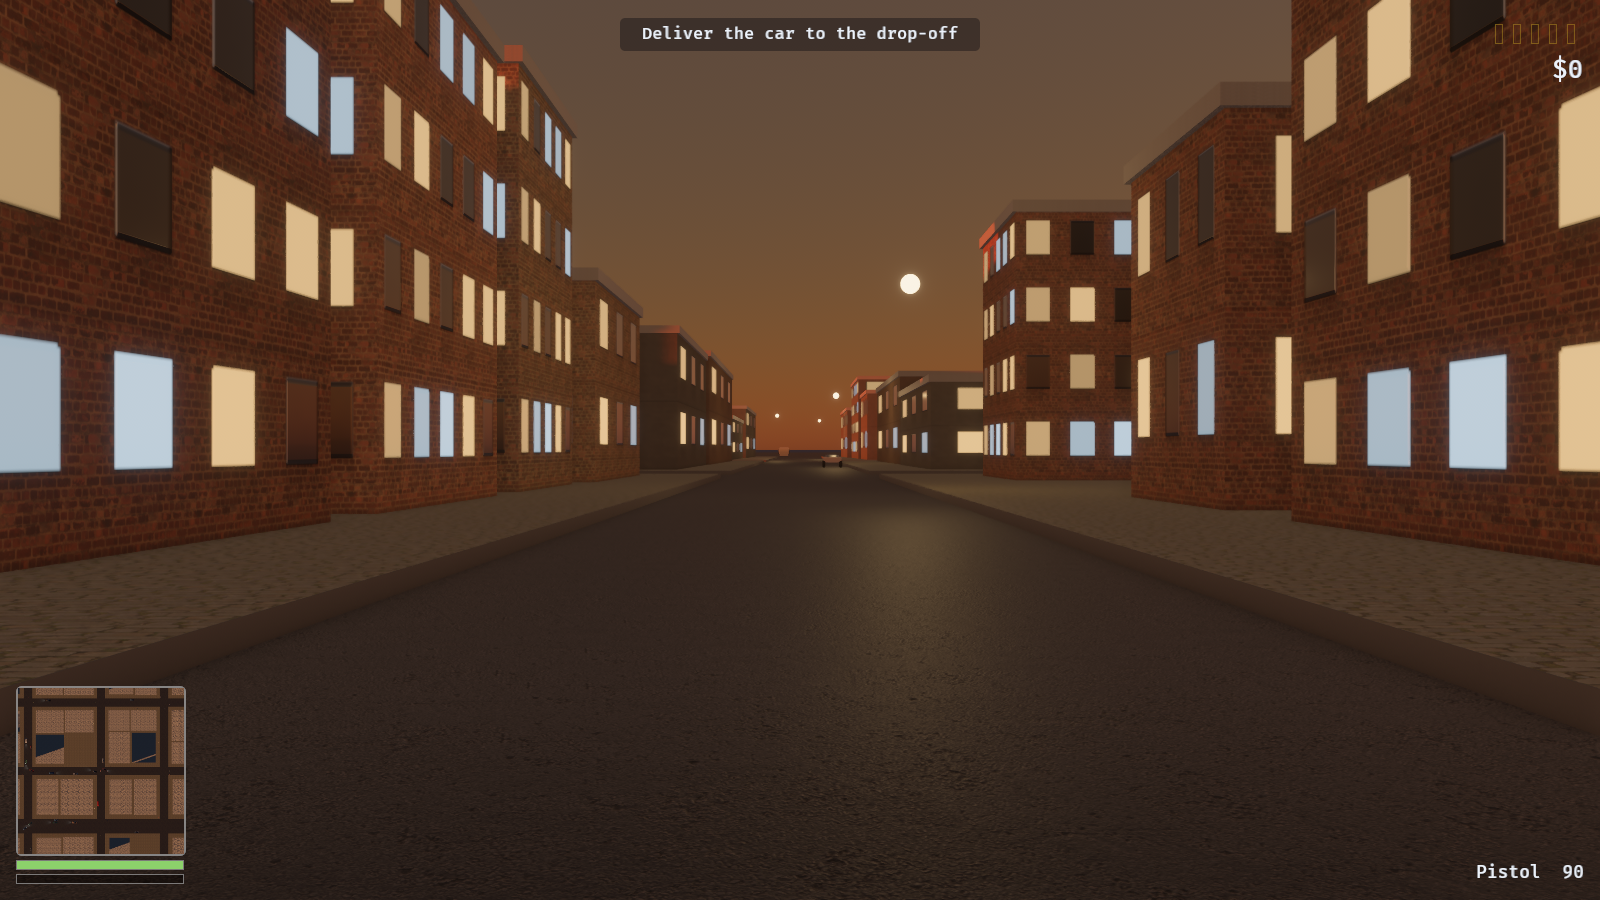
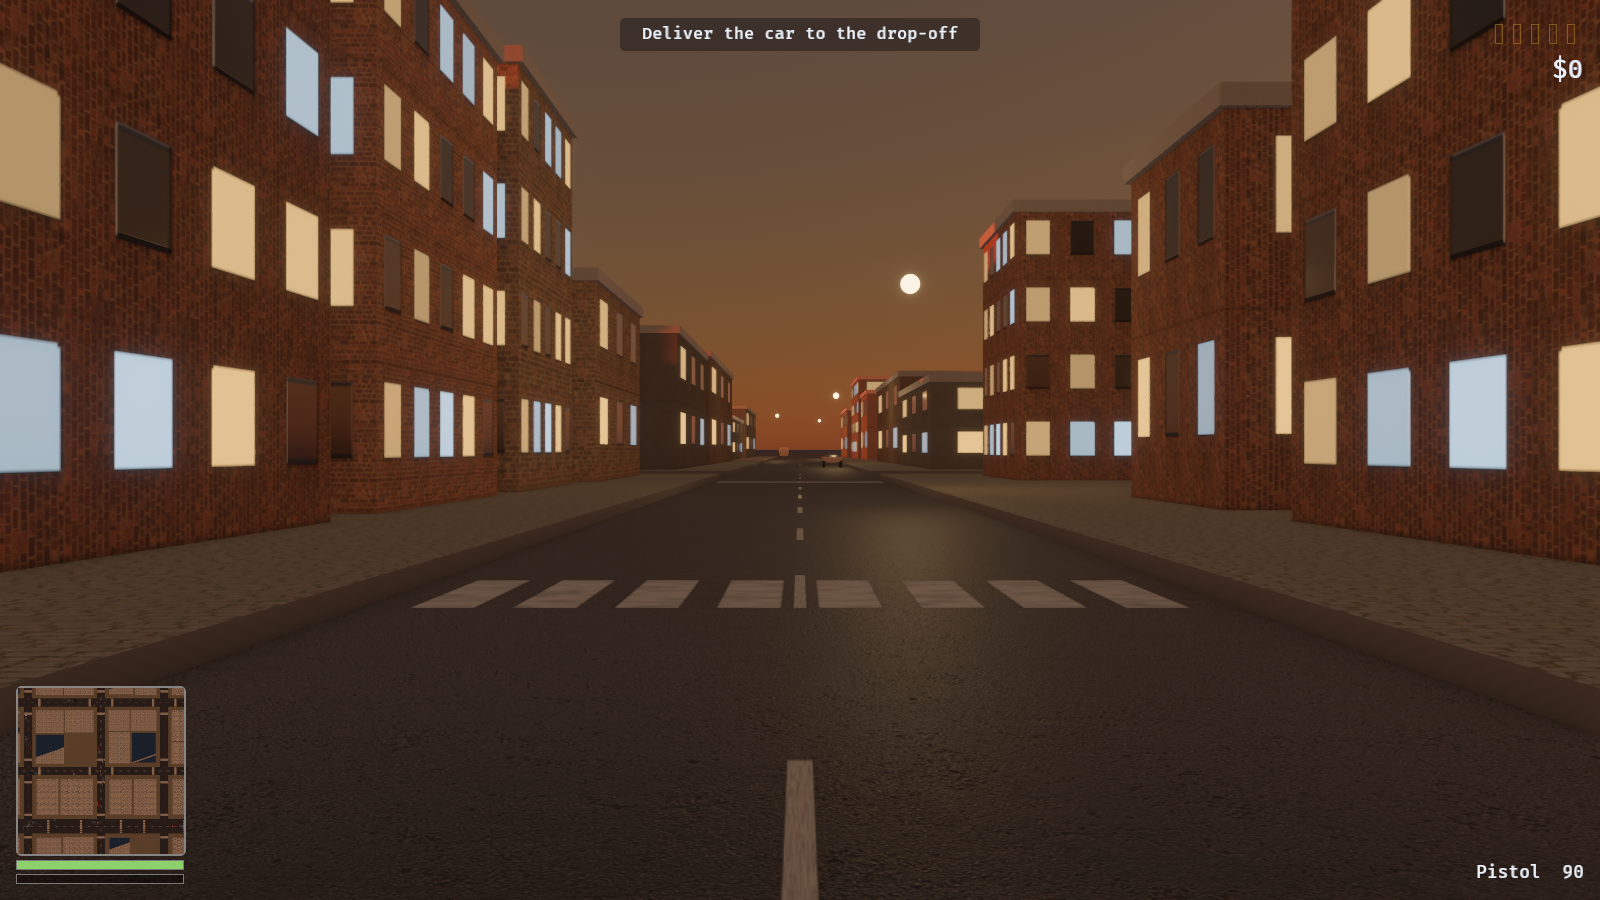
Paint the roads
Streets had no markings at all, which is on the list of things that read
as missing rather than as stylised. The road surface is one plane two
kilometres across, so there is nowhere in its texture to put a line that
has to follow a particular street — the street layout does not exist when
that texture is painted. So the paint is geometry: flat quads laid over
the asphalt, streamed with the chunk they sit in, sharing one mesh and
one material apiece.

Dashes are spaced by placing a quad each rather than by tiling a texture.
A tiled pattern stretched to fit a street gives a fifty-metre street the
same number of dashes as a hundred-metre one; placing them keeps the
dashes the same length everywhere and lets the spacing take up the
remainder, so a line begins and ends the same distance from its junctions
however long the street is.

Crossings go at each junction approach, set back to clear the junction
itself, and only on streets long enough to have room for two.

The paint floats fifteen millimetres above the road. That is not
z-fighting margin — the depth buffer copes with far less — it is so the
line survives the asphalt's own normal-mapped grain at the grazing angles
a driver actually sees it from.

Streets are filed by the chunk their midpoint falls in, so a street that
spans two chunks is painted exactly once.

Changed region(s): [[0.25, 0.6222, 0.75, 0.6844], [0.4688, 0.84, 0.5312, 1.0]]

diff --git a/src/world/markings.rs b/src/world/markings.rs
@@ -1,0 +1,275 @@
+//! The paint on the road.
+//!
+//! Markings are laid as flat quads over the asphalt rather than drawn into it.
+//! The road surface is one plane two kilometres across — there is nowhere in
+//! its texture to put a line that has to follow a particular street, and the
+//! street layout is not known when that texture is painted.
+//!
+//! Each street gets a centre line and each junction approach a crossing, and
+//! both come and go with the chunk they sit in, exactly like the buildings.
+//! They share one mesh and one material apiece, so the whole road network's
+//! paint is two draw calls.
+//!
+//! Everything sits a centimetre and a half above the road. That is not
+//! z-fighting margin — the depth buffer would cope with far less — it is so
+//! the line stays visible from a driver's eye height, where the asphalt's own
+//! normal-mapped grain would otherwise chew into it at grazing angles.
+
+use bevy::prelude::*;
+use bevy::render::render_resource::TextureFormat;
+
+use super::buildings::{ChunkOf, with_tangents};
+use super::roadgraph::RoadEdge;
+use super::texture::{byte, fbm, painted};
+
+/// How high the paint floats above the asphalt.
+const PAINT_HEIGHT: f32 = 0.015;
+/// Width of a centre line, in metres.
+const LINE_WIDTH: f32 = 0.16;
+/// Metres of road per dash, gap included.
+const DASH_PERIOD: f32 = 9.0;
+/// Metres of that period which are actually painted.
+const DASH_LENGTH: f32 = 3.2;
+/// Depth of a crossing measured along the road, in metres.
+const CROSSING_DEPTH: f32 = 2.6;
+/// How far back from a junction the crossing sits, as a fraction of the
+/// street's half-width.
+const CROSSING_SETBACK: f32 = 1.35;
+/// Streets shorter than this get no crossings; there is no room between them.
+const MIN_CROSSING_LENGTH: f32 = 26.0;
+
+const PAINT_SIZE: u32 = 256;
+
+#[derive(Resource)]
+pub struct MarkingAssets {
+    quad: Handle<Mesh>,
+    centre_line: Handle<StandardMaterial>,
+    crossing: Handle<StandardMaterial>,
+}
+
+/// Road paint is worn, not printed: tyres polish it thin down the middle of a
+/// lane and grit fills the low spots. A line at a flat 100% white reads as a
+/// decal laid on the world rather than as paint that has been driven over.
+fn wear(u: f32, v: f32, seed: u32) -> f32 {
+    (0.72 + fbm(u, v, 26, 3, seed) * 0.45).clamp(0.0, 1.0)
+}
+
+/// One dash of a centre line.
+///
+/// A dash rather than a dash *pattern*, because the pattern cannot live in the
+/// texture: every street is a different length, and a texture stretched to fit
+/// one would give a fifty-metre street the same number of dashes as a
+/// hundred-metre one. So the spacing is done by placing quads, and each quad
+/// holds a single mark.
+fn centre_line_texture() -> Image {
+    painted(PAINT_SIZE, TextureFormat::Rgba8UnormSrgb, |u, v| {
+        // Soft along both axes: a hard end aliases into a row of dots at
+        // distance, which is exactly where a dashed line is read from.
+        let across = (1.0 - (u * 2.0 - 1.0).abs()) / 0.20;
+        let ends = (1.0 - (v * 2.0 - 1.0).abs()) / 0.06;
+        let edge = across.clamp(0.0, 1.0) * ends.clamp(0.0, 1.0);
+
+        let value = wear(u, v, 11) * edge;
+        [
+            byte(value),
+            byte(value * 0.985),
+            byte(value * 0.93),
+            byte(value),
+        ]
+    })
+}
+
+/// A zebra crossing: bars running along the road, spaced across it.
+fn crossing_texture() -> Image {
+    painted(PAINT_SIZE, TextureFormat::Rgba8UnormSrgb, |u, v| {
+        // `u` runs across the road; the bars are spaced along it.
+        let bar = (u * 8.0).fract();
+        let inside = bar > 0.18 && bar < 0.82;
+        // Ends of the bars are square, but taper the very edge so the outer
+        // bar does not end in a hard line against the kerb.
+        let along = 1.0 - (v * 2.0 - 1.0).abs();
+        let edge = (along / 0.08).clamp(0.0, 1.0);
+
+        let value = if inside { wear(u, v, 29) * edge } else { 0.0 };
+        [
+            byte(value),
+            byte(value * 0.99),
+            byte(value * 0.95),
+            byte(value),
+        ]
+    })
+}
+
+fn paint_material(texture: Handle<Image>) -> StandardMaterial {
+    StandardMaterial {
+        base_color: Color::WHITE,
+        base_color_texture: Some(texture),
+        // Cut out rather than blended: road paint has no partial transparency,
+        // and a mask keeps the quads out of the transparent queue where they
+        // would have to be sorted against each other every frame.
+        alpha_mode: AlphaMode::Mask(0.35),
+        perceptual_roughness: 0.72,
+        ..default()
+    }
+}
+
+pub fn build_assets(
+    meshes: &mut Assets<Mesh>,
+    materials: &mut Assets<StandardMaterial>,
+    images: &mut Assets<Image>,
+) -> MarkingAssets {
+    MarkingAssets {
+        quad: meshes.add(with_tangents(
+            Plane3d::default().mesh().size(1.0, 1.0).build(),
+        )),
+        centre_line: materials.add(paint_material(images.add(centre_line_texture()))),
+        crossing: materials.add(paint_material(images.add(crossing_texture()))),
+    }
+}
+
+/// Yaw that lays a quad's local +Z along an XZ direction.
+fn along(direction: Vec2) -> f32 {
+    direction.x.atan2(direction.y)
+}
+
+/// Paints one street: a centre line down it, and a crossing at each end.
+pub fn spawn_edge(
+    commands: &mut Commands,
+    assets: &MarkingAssets,
+    edge: &RoadEdge,
+    from: Vec2,
+    to: Vec2,
+    chunk: IVec2,
+) {
+    let Ok(direction) = Dir2::new(to - from) else {
+        return;
+    };
+    let yaw = along(*direction);
+
+    // One quad per dash. Spacing a pattern by placing geometry rather than by
+    // tiling a texture is what keeps the dashes the same length on a short
+    // street and a long one; they all share the mesh and material, so this is
+    // more entities but not more draw calls.
+    let dashes = dash_repeats(edge.length);
+    let period = edge.length / dashes as f32;
+    for i in 0..dashes {
+        let at = from + *direction * (period * (i as f32 + 0.5));
+        commands.spawn((
+            ChunkOf(chunk),
+            Mesh3d(assets.quad.clone()),
+            MeshMaterial3d(assets.centre_line.clone()),
+            Transform::from_xyz(at.x, PAINT_HEIGHT, at.y)
+                .with_rotation(Quat::from_rotation_y(yaw))
+                .with_scale(Vec3::new(LINE_WIDTH, 1.0, DASH_LENGTH.min(period * 0.6))),
+        ));
+    }
+
+    if edge.length < MIN_CROSSING_LENGTH {
+        return;
+    }
+    // One at each end, set back far enough to clear the junction itself.
+    let setback = edge.width * CROSSING_SETBACK;
+    for end in [from + *direction * setback, to - *direction * setback] {
+        commands.spawn((
+            ChunkOf(chunk),
+            Mesh3d(assets.quad.clone()),
+            MeshMaterial3d(assets.crossing.clone()),
+            Transform::from_xyz(end.x, PAINT_HEIGHT, end.y)
+                .with_rotation(Quat::from_rotation_y(yaw))
+                .with_scale(Vec3::new(edge.width * 0.92, 1.0, CROSSING_DEPTH)),
+        ));
+    }
+}
+
+/// How many dashes fit a street of this length.
+///
+/// Rounded rather than truncated, and never zero: the spacing is then stretched
+/// or squeezed a little to fit the street exactly, so a line always begins and
+/// ends the same distance from its junctions.
+pub fn dash_repeats(length: f32) -> usize {
+    ((length / DASH_PERIOD).round() as usize).max(1)
+}
+
+#[cfg(test)]
+mod tests {
+    use super::*;
+
+    #[test]
+    fn a_quad_laid_along_z_points_down_its_street() {
+        // The quad's length runs along local Z, so the yaw has to map +Z onto
+        // the street. Getting this backwards paints every line across the road
+        // instead of along it, which is the kind of thing that looks
+        // deliberate until you drive down it.
+        let cases = [
+            (Vec2::new(0.0, 1.0), Vec3::Z),
+            (Vec2::new(1.0, 0.0), Vec3::X),
+            (Vec2::new(-1.0, 0.0), Vec3::NEG_X),
+        ];
+        for (direction, expected) in cases {
+            let laid = Quat::from_rotation_y(along(direction)) * Vec3::Z;
+            assert!(
+                laid.distance(expected) < 1e-5,
+                "{direction:?} laid the quad along {laid:?}, wanted {expected:?}"
+            );
+        }
+    }
+
+    #[test]
+    fn dashes_land_on_whole_periods() {
+        assert_eq!(dash_repeats(DASH_PERIOD * 4.0), 4);
+        // Never zero, however short the street: a line with no dashes in it is
+        // a street with no line.
+        assert_eq!(dash_repeats(0.5), 1);
+    }
+
+    #[test]
+    fn dashes_stay_shorter_than_the_gaps_between_them() {
+        for length in [30.0, 55.0, 92.0, 140.0] {
+            let period = length / dash_repeats(length) as f32;
+            let dash = DASH_LENGTH.min(period * 0.6);
+            assert!(
+                dash < period * 0.75,
+                "at {length}m the dashes run into each other"
+            );
+        }
+    }
+
+    #[test]
+    fn paint_is_opaque_where_it_is_painted_and_gone_where_it_is_not() {
+        let image = centre_line_texture();
+        let data = image.data.as_ref().expect("pixels");
+        let alpha: Vec<u8> = data.as_chunks::<4>().0.iter().map(|p| p[3]).collect();
+        assert!(
+            alpha.iter().any(|&a| a > 200),
+            "no solid paint anywhere in the dash"
+        );
+        assert!(
+            alpha.iter().any(|&a| a < 20),
+            "the dash has no soft edge, so it will alias into dots"
+        );
+    }
+
+    #[test]
+    fn a_crossing_is_bars_and_not_a_slab() {
+        let image = crossing_texture();
+        let data = image.data.as_ref().expect("pixels");
+        let width = image.texture_descriptor.size.width as usize;
+        let pixels = data.as_chunks::<4>().0;
+
+        // Walk one row across the crossing and count the bars.
+        let row = width / 2;
+        let mut bars = 0;
+        let mut on = false;
+        for x in 0..width {
+            let solid = pixels[row * width + x][3] > 128;
+            if solid && !on {
+                bars += 1;
+            }
+            on = solid;
+        }
+        assert!(
+            (4..=10).contains(&bars),
+            "counted {bars} bars across the crossing"
+        );
+    }
+}

diff --git a/src/world/streaming.rs b/src/world/streaming.rs
@@ -11,6 +11,8 @@ use bevy::prelude::*;
 
 use super::City;
 use super::buildings::{ChunkOf, CityAssets, spawn_block};
+use super::markings::{MarkingAssets, spawn_edge};
+use super::roadgraph::EdgeId;
 use crate::core::config::GameConfig;
 
 pub const CHUNK_SIZE: f32 = 250.0;
@@ -34,6 +36,11 @@ pub fn chunk_center(chunk: IVec2) -> Vec2 {
 #[derive(Resource, Default)]
 pub struct ChunkIndex {
     blocks: HashMap<IVec2, Vec<usize>>,
+    /// Streets, filed by the chunk their midpoint falls in. A street can span
+    /// two chunks; filing it by its middle means it is painted exactly once,
+    /// and the half that hangs over the edge is a few metres of line beyond a
+    /// boundary nobody can see.
+    streets: HashMap<IVec2, Vec<EdgeId>>,
 }
 
 impl ChunkIndex {
@@ -45,7 +52,18 @@ impl ChunkIndex {
                 .or_default()
                 .push(i);
         }
-        Self { blocks }
+
+        let graph = &city.graph;
+        let mut streets: HashMap<IVec2, Vec<EdgeId>> = HashMap::default();
+        for (i, edge) in graph.edges().enumerate() {
+            let middle = graph.node(edge.a).pos.midpoint(graph.node(edge.b).pos);
+            streets
+                .entry(chunk_of(middle))
+                .or_default()
+                .push(EdgeId(i as u32));
+        }
+
+        Self { blocks, streets }
     }
 
     pub fn chunk_count(&self) -> usize {
@@ -54,6 +72,10 @@ impl ChunkIndex {
 
     pub fn blocks_in(&self, chunk: IVec2) -> Option<&[usize]> {
         self.blocks.get(&chunk).map(|v| v.as_slice())
+    }
+
+    pub fn streets_in(&self, chunk: IVec2) -> Option<&[EdgeId]> {
+        self.streets.get(&chunk).map(|v| v.as_slice())
     }
 
     /// Which chunks should be resident for a camera at `focus`.
@@ -67,6 +89,7 @@ impl ChunkIndex {
         let cutoff = radius + CHUNK_SIZE * std::f32::consts::SQRT_2 * 0.5;
         self.blocks
             .keys()
+            .chain(self.streets.keys())
             .copied()
             .filter(|&c| chunk_center(c).distance(focus) <= cutoff)
             .collect()
@@ -100,6 +123,7 @@ pub fn update_streaming(
     city: Res<City>,
     index: Res<ChunkIndex>,
     assets: Res<CityAssets>,
+    paint: Res<MarkingAssets>,
     mut active: ResMut<ActiveChunks>,
     mut timer: ResMut<StreamTimer>,
     cameras: Query<&GlobalTransform, With<crate::player::camera::CameraRig>>,
@@ -118,6 +142,13 @@ pub fn update_streaming(
         if let Some(block_indices) = index.blocks_in(chunk) {
             for &i in block_indices {
                 spawn_block(&mut commands, &assets, &city.blocks[i], chunk);
+            }
+        }
+        if let Some(streets) = index.streets_in(chunk) {
+            for &id in streets {
+                let edge = city.graph.edge(id);
+                let (from, to) = (city.graph.node(edge.a).pos, city.graph.node(edge.b).pos);
+                spawn_edge(&mut commands, &paint, edge, from, to, chunk);
             }
         }
     }

diff --git a/src/world/mod.rs b/src/world/mod.rs
@@ -3,6 +3,7 @@
 pub mod buildings;
 pub mod citygen;
 pub mod facade;
+pub mod markings;
 pub mod material;
 pub mod roadgraph;
 pub mod streaming;
@@ -63,6 +64,11 @@ fn generate_city(
     let city = City(layout);
     commands.insert_resource(streaming::ChunkIndex::build(&city));
     commands.insert_resource(city);
+    commands.insert_resource(markings::build_assets(
+        &mut meshes,
+        &mut materials,
+        &mut images,
+    ));
     commands.insert_resource(buildings::build_assets(
         &mut meshes,
         &mut materials,

diff --git a/README.md b/README.md
@@ -213,7 +213,6 @@ pursuit, and everything but the player's own car is positioned in the world.
 - Pedestrians cross roads wherever their route turns, rather than at crossings.
 - Traffic has no right-of-way rules at junctions; it brakes for obstacles only.
 - Vehicle damage is not visually modelled — cars are wrecked, not deformed.
-- Roads have no markings: no lane lines, no crossings, no junction paint.
 - Facades are procedural, so walls read as materials rather than photographs.
   Scanning them needs a custom material with a detail UV; see above.
 - Bodywork has no crease lines. The cross-sections give a shoulder that turns
